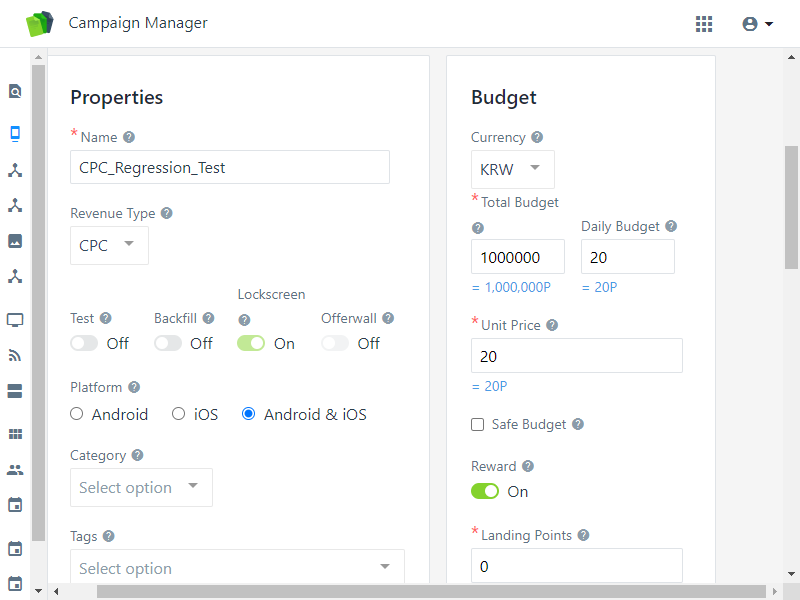
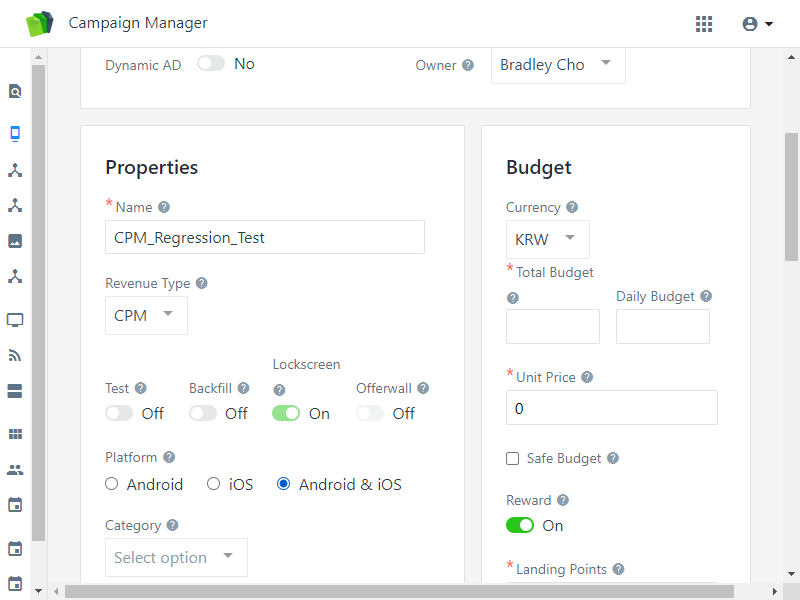
0.5

diff --git a/step_definitions/DA_LineItemCreation_steps.js b/step_definitions/DA_LineItemCreation_steps.js
@@ -5,10 +5,10 @@ const revenueType = 'CPC'
 const platformCode = '1'   //1 : AOS //2 : iOS //3 : both
 const totalBudget = '1000000'
 const dailyBudget = '20'
-const unitPrice = '20'
+//const unitPrice = '20'
 const checkSafeBudget = '0'
 const safeBudget = "30"
-const checkReward = "0"
+const checkReward = "1"
 const landingPoints = "20"
 const rewardPeriod = "60"
 const CurrencyCode = "KRW"
@@ -22,128 +22,151 @@ const hcpu = '3'
 const dcpu = '3'
 const tcpu = '3'
 
+
 let initialUrl = 'https://dashboard-staging.buzzvil.com/campaign/direct_sales/ads/'
-    
+
 // Scenario Outline: 로그인 기능 확인
-Given('Direct Sales 페이지로 이동', () => {
+Given(/Direct Sales 페이지로 이동/, () => {
+  console.log("Direct Sales 페이지로 이동")
   I.amOnPage(initialUrl)
 
 });
 
-When ('ID 입력', () => {
+When (/ID 입력/, () => {
+  console.log("ID 입력")
   StepLogin.enterId("bradley.cho@buzzvil.com")
   
 });
 
-When ('Password 입력', () => {
+When (/Password 입력/, () => {
+  console.log("Password 입력")
   StepLogin.enterPassword("@NGEqUCNt27jxPR")
   
 });
 
- When ('확인 버튼 클릭', () => {
+ When (/확인 버튼 클릭/, () => {
+  console.log("확인 버튼 클릭")
    StepLogin.clickSubmit()
 });
 
- When ('Direct Sales >> Ads 페이지로 이동', () => {
+ When (/Direct Sales >> Ads 페이지로 이동/, () => {
+  console.log("Direct Sales >> Ads 페이지로 이동")
   StepLogin.movetoAds()
 });
 
-When ('Name 입력', () => {
-  StepProperity.name(revenueType)
+
+When ('Name {word} Regression_Test 입력', (RevenueType) => {
+  console.log("Name "+ RevenueType + " Regression_Test 입력")
+    StepProperity.name(RevenueType)
 });
 
-When ('Revenue Type 입력', () => {
-  StepProperity.revenueType(revenueType)
+When ('{word} 입력', (RevenueType) => {
+  console.log(RevenueType+" 입력")
+  StepProperity.revenueType(RevenueType)
 });	
 
+
+
 When ('Test : off, Backfill : off, Lockscreen : On, Offerwall : Off 설정', () => {
+  console.log("Test : off, Backfill : off, Lockscreen : On, Offerwall : Off 설정")
   StepProperity.setEnv()
 });
 
 When ('Platform 선택', () => {
+  console.log("Platform 선택")
   StepProperity.setPlatform(platformCode)
 });
 
-When ('Category 선택, Tag 선택, 3rd Party Tracker 선택', () => {
-
+When ('Category Tag 3rd Party Tracker 선택', () => {
+  console.log("Category Tag 3rd Party Tracker 선택")
 
 });
 
 When ('Landing Type 선택', () => {
+  console.log("Landing Type 선택")
 });
 
-When ('Budget 입력', () => {
-  StepBudget.setCurrency(CurrencyCode)
-  StepBudget.setBudget(totalBudget, dailyBudget, unitPrice, checkSafeBudget, safeBudget,checkReward,landingPoints, rewardPeriod)
+When ('Budget : Unit Price = {int}, Landing Point = {int} 입력', async(unitPrice, landingPoints) => {
+  console.log("Budget입력")
+  await StepBudget.setCurrency(CurrencyCode)
+  await StepBudget.setBudget(totalBudget, dailyBudget, unitPrice, checkSafeBudget, safeBudget)
+  await StepBudget.setReward(checkReward,landingPoints, rewardPeriod)
 });
 
 When ('Period 셋팅', () => {
-
+  console.log("Period 셋팅")
 });
 
-When ('Display Type 선택', () => {
+When ('Display Type 선택', async() => {
+  console.log("Display Type 선택")
   const displayTypeCode = '1'
   // 1: First & Rolling screens, 2: First screen, 3, Rolling screen
   StepAllocation.displayType(displayTypeCode)
 });
 
-When ('Display Weight 입력', () => {
-
+When ('Display Weight 입력', async() => {
+  console.log("Display Weight 입력");
   StepAllocation.displayWeight(displayWeightValue)
 
 });
 
-When ('IPU, DIPU, TIPU 입력', () => {
-
+When ('IPU, DIPU, TIPU 입력', async() => {
+  console.log("IPU, DIPU, TIPU 입력");
   StepAllocation.ipu(ipuYN,hipu,dipu,tipu)
 });
 
-When ('CPU, DCPU, TCPU 입력', () => {
-
+When ('CPU, DCPU, TCPU 입력', async() => {
+  console.log("CPU, DCPU, TCPU 입력");
   StepAllocation.cpu(cpuYN,hcpu,dcpu,tcpu)
 });
 
-When ('Include Group 입력', () => {
+When ('Include Group 입력', async() => {
+  console.log("Include Group 입력");
  includeGroupName= 'Test_Unit_Group_Brad_AOS'
  StepPlacement.includeGroup(includeGroupName) 
 });
 
-When ('Include Unit 입력', () => {
+When ('Include Unit 입력', async() => {
+  console.log("Include Unit 입력");
 });
 
-When ('Exclude Unit 입력', () => {
+When ('Exclude Unit 입력', async() => {
+  console.log("Exclude Unit 입력");
 });
 
-When ('Targeting 셋팅', () => {
+When ('Targeting 셋팅', async() => {
+  console.log("Targeting 셋팅");
+ // I.wait(20)
 });
 
-When ('Save 클릭', () => {
+When ('Save 클릭', async() => {
+  console.log("Save 클릭");
   StepTearDown.clickSave()
 });
 
 
  Then('New Creative 페이지로 이동', async()=>{
-  //const cells = table.rows[1].cells;
-  /*Move to Lineitem detail page */
-  I.waitForElement('#creativeForm > div > div > div.card > div:nth-child(5) > div > div.label--wrap > label')
-  let str2 = await I.grabCurrentUrl()
-  const lineitem_id = str2.substr(89,100)
-  let lineitemDetailURL = 'https://dashboard-staging.buzzvil.com/campaign/direct_sales/ads/'+lineitem_id+'/detail'
-  I.amOnPage(lineitemDetailURL)
-  console.log("!!!!!!!!!!!!!!!!!!!!!!!!!!!!!!!!!!!!!!!!!!!!!!!!!!!!!!!!!!!!"+lineitem_id)
+//   //const cells = table.rows[1].cells;
+//   /*Move to Lineitem detail page */
+//   I.waitForElement('#creativeForm > div > div > div.card > div:nth-child(5) > div > div.label--wrap > label')
+//   let str2 = await I.grabCurrentUrl()
+//   const lineitem_id = str2.substr(89,100)
+//   let lineitemDetailURL = 'https://dashboard-staging.buzzvil.com/campaign/direct_sales/ads/'+lineitem_id+'/detail'
+//   I.amOnPage(lineitemDetailURL)
+//   console.log("!!!!!!!!!!!!!!!!!!!!!!!!!!!!!!!!!!!!!!!!!!!!!!!!!!!!!!!!!!!!"+lineitem_id)
   
-  /* Validate created lineitem data*/
-  // Type
-  I.seeElement('body > div > section > div > div.view-container > div > section.header > div.summary-container > div > div.summary-info > table > tbody > tr:nth-child(1) > td',revenueType)
+//   /* Validate created lineitem data*/
+//   // Type
+//   I.seeElement('body > div > section > div > div.view-container > div > section.header > div.summary-container > div > div.summary-info > table > tbody > tr:nth-child(1) > td',revenueType)
   
-  // Total Budget
-  I.seeElement('body > div > section > div > div.view-container > div > section.header > div.summary-container > div > div.summary-stats-container > div:nth-child(2) > div:nth-child(2) > div.summary-stats-value','10,000')
+//   // Total Budget
+//   I.seeElement('body > div > section > div > div.view-container > div > section.header > div.summary-container > div > div.summary-stats-container > div:nth-child(2) > div:nth-child(2) > div.summary-stats-value','10,000')
   
-  /**** Property ****/
-  // Name
-  I.seeElement('body > div > section > div > div.view-container > div > section.content-container > div > div.row.form__containter > div.col-sm-7 > div > div > div:nth-child(1) > div > div.value',revenueType+'_Regression_Test')
-  // Reveneue Type
-  I.seeElement('body > div > section > div > div.view-container > div > section.content-container > div > div.row.form__containter > div.col-sm-7 > div > div > div:nth-child(2) > div > div.value',revenueType)
+//   /**** Property ****/
+//   // Name
+//   I.seeElement('body > div > section > div > div.view-container > div > section.content-container > div > div.row.form__containter > div.col-sm-7 > div > div > div:nth-child(1) > div > div.value',revenueType+'_Regression_Test')
+//   // Reveneue Type
+//   I.seeElement('body > div > section > div > div.view-container > div > section.content-container > div > div.row.form__containter > div.col-sm-7 > div > div > div:nth-child(2) > div > div.value',revenueType)
 
- })
+ });
 

diff --git a/tests/testSteps/properity_test.js b/tests/testSteps/properity_test.js
@@ -1,16 +1,30 @@
 module.exports = function() {
     return actor({
       //Name 입력
-      name: function(revenueType) {
-        this.fillField("item_name",revenueType+"_Regression_Test") 
+      name: function(RevenueType) {
+        this.fillField("item_name", RevenueType+"_Regression_Test");
       },
 
       //Revenue Type 입력
-      revenueType: function(revenueType) {
+      revenueType: function(RevenueType) {
         this.click("#adForm > div > div:nth-child(2) > div > div > div > div:nth-child(3) > div.multiselect.multiselect-wrapper.shrink > div.multiselect__tags > span")
-        // this.click("#adForm > div > div:nth-child(2) > div > div > div > div:nth-child(3) > div.multiselect.multiselect-wrapper.shrink > div.multiselect__content-wrapper > ul > li:nth-child(1) > span > span")
-        this.click(revenueType)
+        switch(RevenueType){
+          case "CPC"        : return this.click("#adForm > div > div:nth-child(2) > div > div > div > div:nth-child(3) > div.multiselect.multiselect--above.multiselect-wrapper.shrink > div.multiselect__content-wrapper > ul > li:nth-child(1)")
+          case "CPM"        : return this.click("#adForm > div > div:nth-child(2) > div > div > div > div:nth-child(3) > div.multiselect.multiselect--above.multiselect-wrapper.shrink > div.multiselect__content-wrapper > ul > li:nth-child(2)")
+          case "CPI"        : return this.click("#adForm > div > div:nth-child(2) > div > div > div > div:nth-child(3) > div.multiselect.multiselect--above.multiselect-wrapper.shrink > div.multiselect__content-wrapper > ul > li:nth-child(3)")
+          case "CPE"        : return this.click("#adForm > div > div:nth-child(2) > div > div > div > div:nth-child(3) > div.multiselect.multiselect--above.multiselect-wrapper.shrink > div.multiselect__content-wrapper > ul > li:nth-child(4)")
+          case "CPA"        : return this.click("#adForm > div > div:nth-child(2) > div > div > div > div:nth-child(3) > div.multiselect.multiselect--above.multiselect-wrapper.shrink > div.multiselect__content-wrapper > ul > li:nth-child(5)")
+          case "CPL"        : return this.click("#adForm > div > div:nth-child(2) > div > div > div > div:nth-child(3) > div.multiselect.multiselect--above.multiselect-wrapper.shrink > div.multiselect__content-wrapper > ul > li:nth-child(6)")
+          case "CPV"        : return this.click("#adForm > div > div:nth-child(2) > div > div > div > div:nth-child(3) > div.multiselect.multiselect--above.multiselect-wrapper.shrink > div.multiselect__content-wrapper > ul > li:nth-child(7)")
+          case "CPInsta"    : return this.click("#adForm > div > div:nth-child(2) > div > div > div > div:nth-child(3) > div.multiselect.multiselect--above.multiselect-wrapper.shrink > div.multiselect__content-wrapper > ul > li:nth-child(8)")
+          case "CPQ"        : return this.click("#adForm > div > div:nth-child(2) > div > div > div > div:nth-child(3) > div.multiselect.multiselect--above.multiselect-wrapper.shrink > div.multiselect__content-wrapper > ul > li:nth-child(9)")
+          case "CPK"        : return this.click("#adForm > div > div:nth-child(2) > div > div > div > div:nth-child(3) > div.multiselect.multiselect--above.multiselect-wrapper.shrink > div.multiselect__content-wrapper > ul > li:nth-child(10)")
+          case "CPL"        : return this.click("#adForm > div > div:nth-child(2) > div > div > div > div:nth-child(3) > div.multiselect.multiselect--above.multiselect-wrapper.shrink > div.multiselect__content-wrapper > ul > li:nth-child(11)")
+          case "CPYoutuve"  : return this.click("#adForm > div > div:nth-child(2) > div > div > div > div:nth-child(3) > div.multiselect.multiselect--above.multiselect-wrapper.shrink > div.multiselect__content-wrapper > ul > li:nth-child(12)")
+          case "CPS"        : return this.click("#adForm > div > div:nth-child(2) > div > div > div > div:nth-child(3) > div.multiselect.multiselect--above.multiselect-wrapper.shrink > div.multiselect__content-wrapper > ul > li:nth-child(13)")
+        }
       },
+      
       setEnv: function() {
         //Test
 //        this.click("#adForm > div > div:nth-child(2) > div > div > div > div:nth-child(4) > div:nth-child(2) > label > label > span")

diff --git a/tests/testSteps/budget_test.js b/tests/testSteps/budget_test.js
@@ -2,14 +2,14 @@ module.exports = function() {
     return actor({
       //Name 입력
       setCurrency: function(currencyCode) {
-        if(cyrrencyCode = 'currencyCode')
-        {
-          this.click("#adForm > div > div:nth-child(3) > div > div:nth-child(2) > div > div > div.multiselect.multiselect-wrapper.shrink > div.multiselect__tags")
+        switch(currencyCode){
+          case "KRW" : return this.click("#adForm > div > div:nth-child(3) > div > div:nth-child(2) > div > div > div.multiselect.multiselect-wrapper.shrink > div.multiselect__tags");
+          default: return  this.click("#adForm > div > div:nth-child(3) > div > div:nth-child(2) > div > div > div.multiselect.multiselect-wrapper.shrink > div.multiselect__tags");
         }
         
       },
-      setBudget: function(totalBudget,dailyBudget,unitPrice, checkSafeBudget, safeBudget, checkReward, landingPoints, rewardPeriod) {
 
+      setBudget: async function(totalBudget,dailyBudget,unitPrice, checkSafeBudget, safeBudget) {
         //Total Budget
         this.fillField("#adForm > div > div:nth-child(3) > div > div:nth-child(3) > div > div:nth-child(2) > div.input-group > input",totalBudget);
         //Daily Budget
@@ -18,26 +18,35 @@ module.exports = function() {
         this.fillField("#adForm > div > div:nth-child(3) > div > div:nth-child(3) > div > div:nth-child(4) > div.input-group > input",unitPrice);
         //Safe Budget
         if (checkSafeBudget =="1"){
-          this.click("#adForm > div > div:nth-child(3) > div > div:nth-child(3) > div > div:nth-child(5) > div > div.togglable__toggle > input[type=checkbox]")
+          this.checkOption("#adForm > div > div:nth-child(3) > div > div:nth-child(3) > div > div:nth-child(5) > div > div.togglable__toggle > input[type=checkbox]")
 
           this.fillField("#adForm > div > div:nth-child(3) > div > div:nth-child(3) > div > div:nth-child(5) > div > div.togglable__field > div > div.input-group > input",safeBudget)
-        }
+        }else{
+          this.uncheckOption("#adForm > div > div:nth-child(3) > div > div:nth-child(3) > div > div:nth-child(5) > div > div.togglable__toggle > input[type=checkbox]")
+        }        
+      },
 
+      setReward : async function(checkReward, landingPoints, rewardPeriod) {
         //landingPoints
-        //const isFieldRendered = this.isExistsElement("#adForm > div > div:nth-child(3) > div > div:nth-child(3) > div > div:nth-child(7) > div.input-group > input")
+        let checkRewardStatus = await this.grabTextFrom("#adForm > div > div:nth-child(3) > div > div:nth-child(3) > div > div:nth-child(6) > div:nth-child(2) > label > span","span");
         if (checkReward == "1"){
           
-          //#adForm > div > div:nth-child(3) > div > div:nth-child(3) > div > div:nth-child(8)
-          if (this.dontSeeElement({xpath:'/html/body/div/section/div/div[1]/div/section[2]/div/form/div/div[3]/div/div[2]/div/div[6]/div[2]/input'})){
-            //this.click("#adForm > div > div:nth-child(3) > div > div:nth-child(3) > div > div:nth-child(6) > div:nth-child(2) > label > label > span")
+          if (checkRewardStatus=="Off"){
+            this.click("#adForm > div > div:nth-child(3) > div > div:nth-child(3) > div > div:nth-child(6) > div:nth-child(2) > label > label > span")
+          }
+          console.log(landingPoints)
+          this.fillField("#adForm > div > div:nth-child(3) > div > div:nth-child(3) > div > div:nth-child(7) > div.input-group > input",landingPoints)
+          // this.wait(10)
+
+        }else if(checkReward =="0") {
+          if (checkRewardStatus=="On"){
             this.click("#adForm > div > div:nth-child(3) > div > div:nth-child(3) > div > div:nth-child(6) > div:nth-child(2) > label > label > span > span")
           }
-          this.fillField("#adForm > div > div:nth-child(3) > div > div:nth-child(3) > div > div:nth-child(7) > div.input-group > input",landingPoints)
         }
         
         //rewardPeriod
         this.fillField("reward_period", rewardPeriod)
-        
+        // this.wait(10)
       }
     });
   }

diff --git a/tests/createLineitem_test.js b/tests/createLineitem_test.js
@@ -1,5 +1,33 @@
+const { I, StepLogin, StepProperity, StepBudget, StepAllocation, StepPlacement, StepTearDown } = inject();
+
 Feature('createLineitem');
 
-Scenario('test something', (I) => {
+Scenario('test something', async(I) => {
 
+    let initialUrl = 'https://dashboard-staging.buzzvil.com/campaign/direct_sales/ads/'
+    const revenueType = 'CPC'
+    // I.login()
+
+    I.amOnPage(initialUrl)
+    // StpeLogin.login("bradley.cho@buzzvil.com","@NGEqUCNt27jxPR")
+    //StepLogin.sendForm("bradley.cho@buzzvil.com","@NGEqUCNt27jxPR")
+    //StepLogin.sendForm()
+    // StepLogin.login("bradley.cho@buzzvil.com","@NGEqUCNt27jxPR")
+    
+     I.fillField("body > div > form > label:nth-child(2) > input","bradley.cho@buzzvil.com")
+     I.fillField("body > div > form > label:nth-child(3) > input","@NGEqUCNt27jxPR")
+     I.click("body > div > form > div > button")
+
+    // Create Ad
+    I.click("body > div > section > div > div.view-container > div > section.header > div > div > div > button > span")
+    I.click("body > div > section > div > div.view-container > div > section.header > div > div > div > div > div > a:nth-child(2)")
+
+    /**** Fill Property ****/
+    // Fill Name
+    I.fillField("item_name",revenueType+"_Regression_Test") 
+
+    //#adForm > div > div:nth-child(3) > div > div:nth-child(3) > div > div:nth-child(6) > div:nth-child(2) > label > span
+    
+    let checkRewardStatus = await I.grabAttributeFrom("#adForm > div > div:nth-child(3) > div > div:nth-child(3) > div > div:nth-child(6) > div:nth-child(2) > label > span","toggle-label");
+    await console.log("aaaaaaaaaaaaaaaaaaaaaaaaaaaa:"+checkRewardStatus )
 });

diff --git a/tests/testSteps/login_test.js b/tests/testSteps/login_test.js
@@ -12,6 +12,7 @@ module.exports = function() {
       this.click('body > div > form > div > button');
     },
     movetoAds: function(){
+      this.waitForElement('body > div > section > div > div.view-container > div > section.header > div > div > div > button > span',5)
       this.click("body > div > section > div > div.view-container > div > section.header > div > div > div > button > span")
       this.click("body > div > section > div > div.view-container > div > section.header > div > div > div > div > div > a:nth-child(2)")
     },

diff --git a/tests/testSteps/tearDown_test.js b/tests/testSteps/tearDown_test.js
@@ -3,10 +3,8 @@ module.exports = function() {
       //include group 입력
       clickSave: function() {
         this.click("Save")
+        //this.wait(10)
         //body > div > section > div > div.view-container > div > section.header > div > div:nth-child(2) > button:nth-child(2) > span
-        this.wait(3)
-        console.log("11111111111111111111111111111111111111111111")
-        
       }
     });
   }
